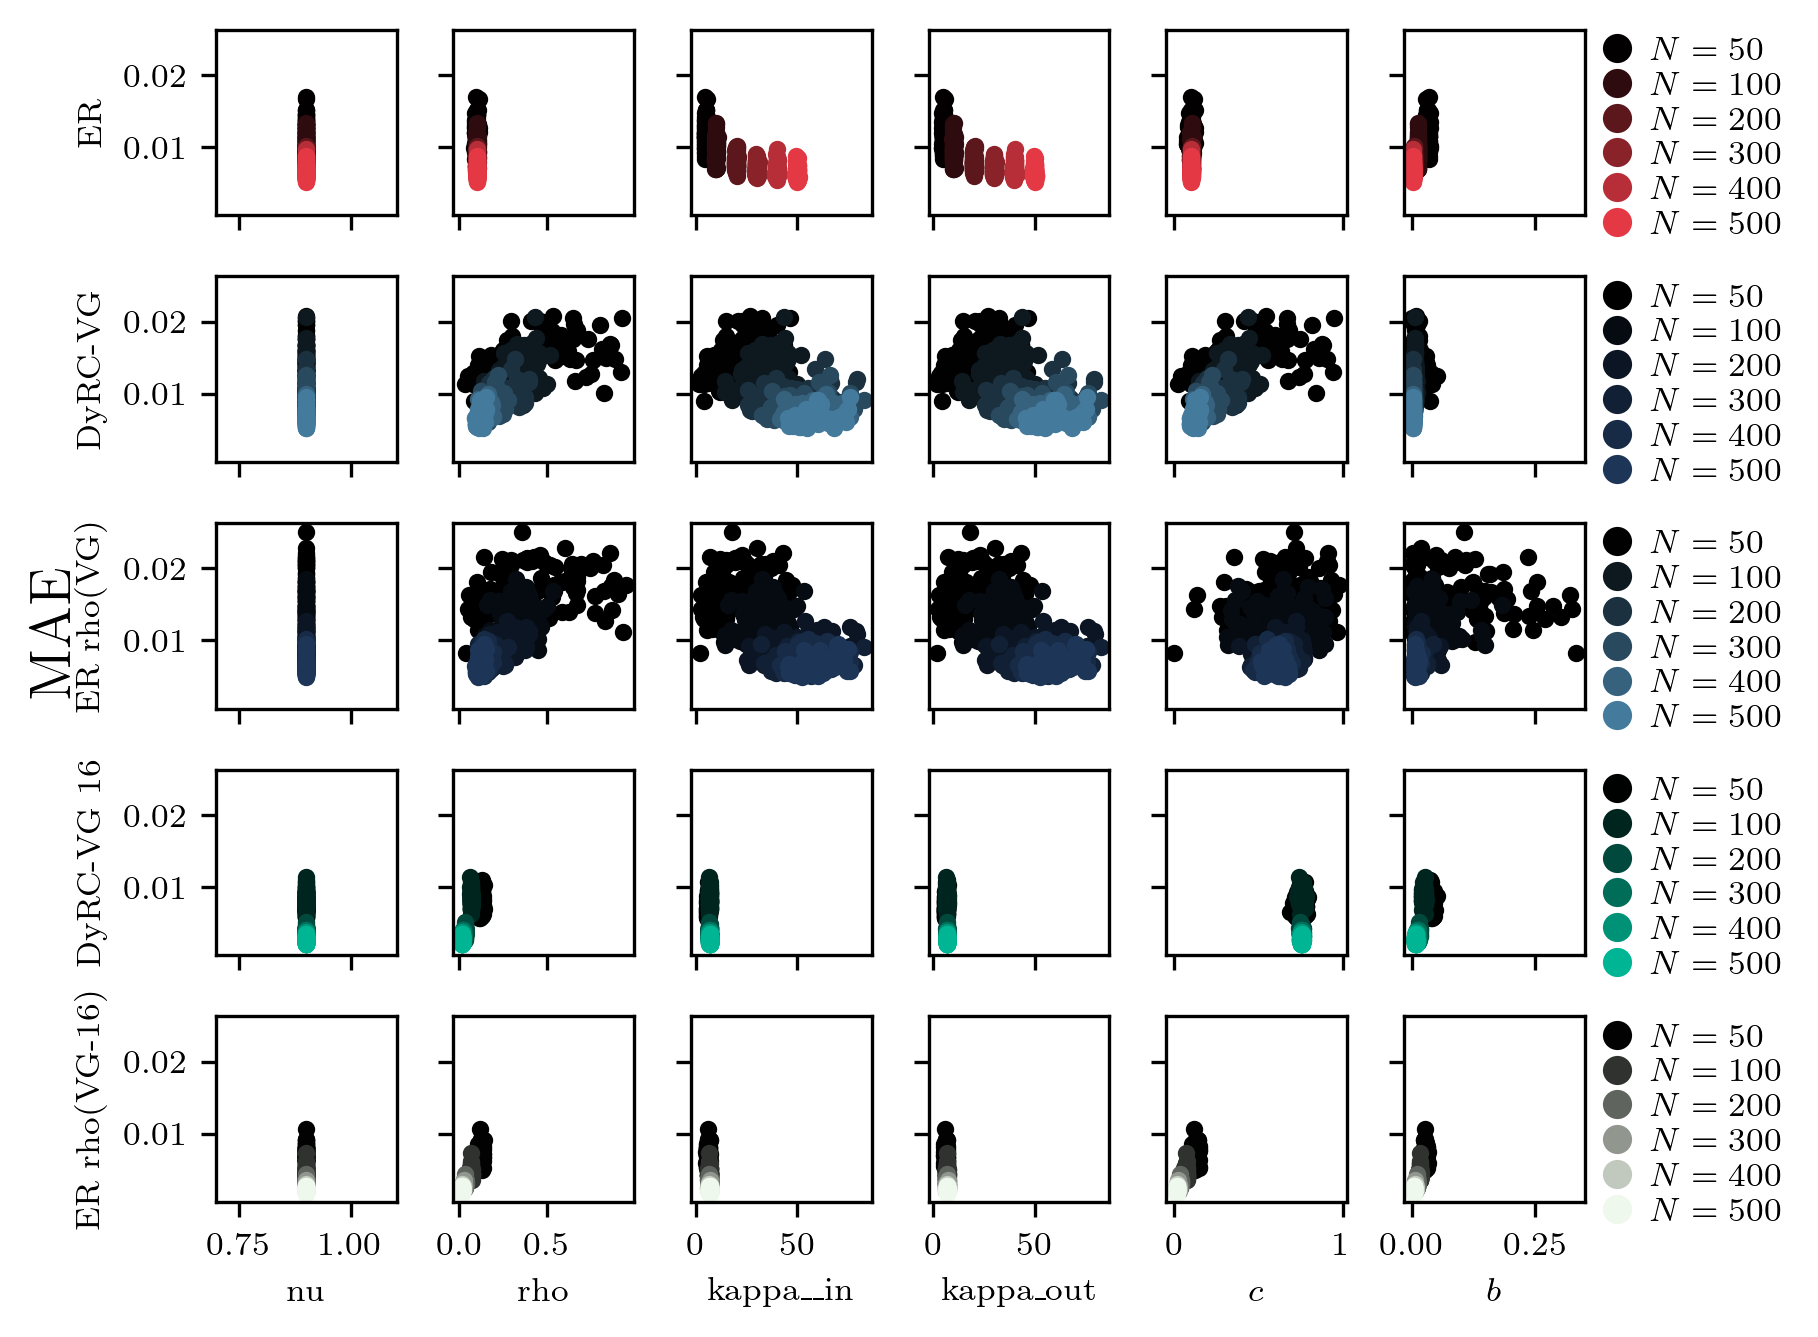
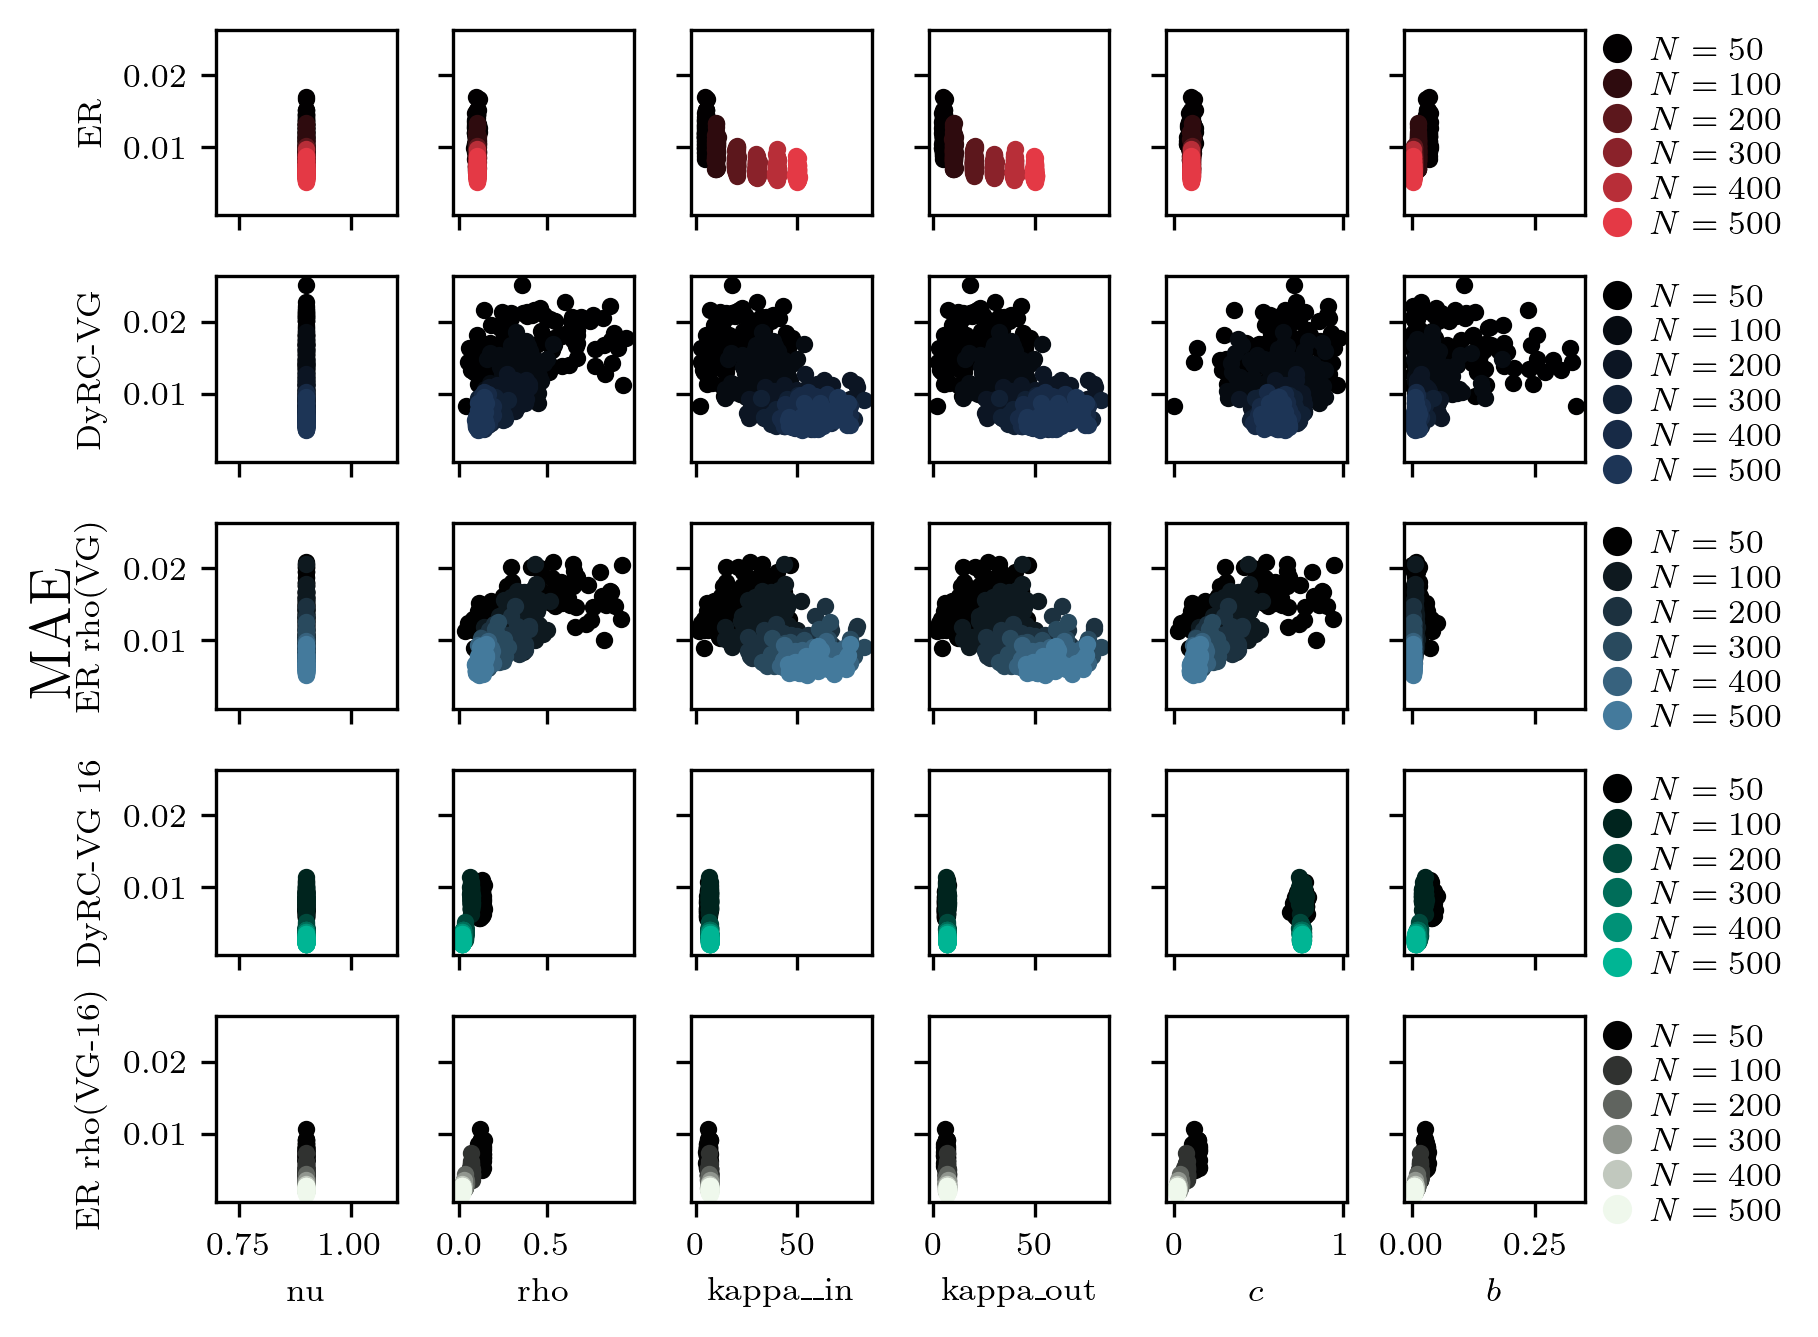
fix data placement in figure 3 revision

diff --git a/figure_3.py b/figure_3.py
@@ -82,7 +82,7 @@ for n in num_nodes:
     # 2nd: VG in dark blue 
     for metric in ['spec_rad_vg', 'dens_vg', 'av_in_degree_vg', 
                 'av_out_degree_vg', 'clustering_coeff_vg', 'av_betweenness_vg']:
-        ax[2,i].scatter(df[metric], df['mae_vg'], s=10, color=custom_cmap_blue_2(alphas[j]))
+        ax[1,i].scatter(df[metric], df['mae_vg'], s=10, color=custom_cmap_blue_2(alphas[j]))
         i = i+1
     i = 0
 
@@ -90,7 +90,7 @@ for n in num_nodes:
     i = 0
     for metric in ['spec_rad_dens', 'dens_dens', 'av_in_degree_dens', 
                 'av_out_degree_dens', 'clustering_coeff_dens', 'av_betweenness_dens']:
-        ax[1,i].scatter(df[metric], df['mae_dens'], s=10, color=custom_cmap_blue_3(alphas[j]))
+        ax[2,i].scatter(df[metric], df['mae_dens'], s=10, color=custom_cmap_blue_3(alphas[j]))
         i = i+1
     i=0
 
